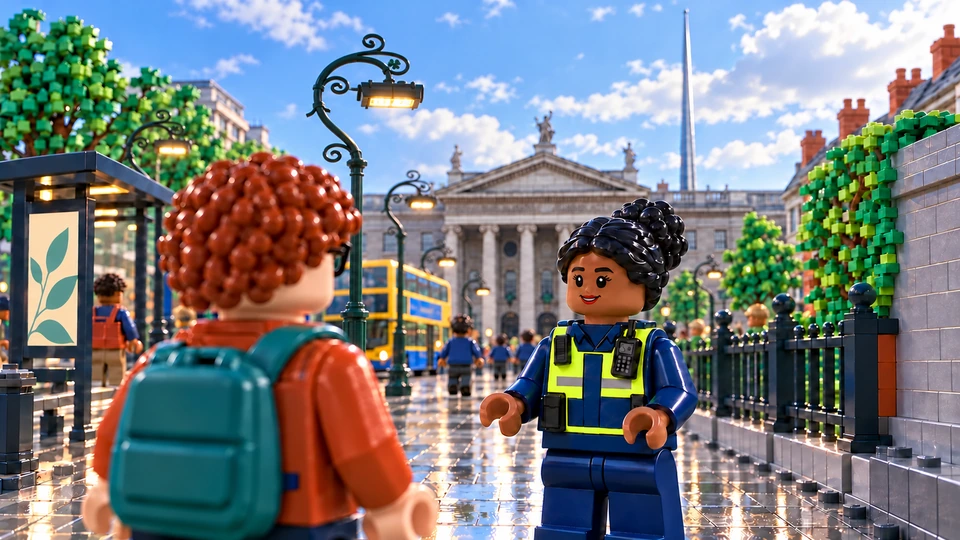
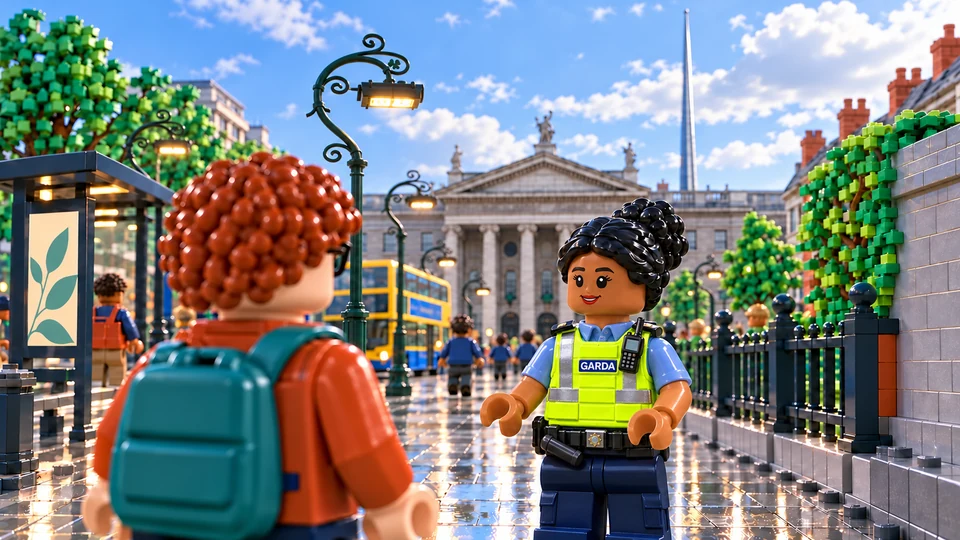
Update Garda character uniforms from photo reference
Add a transparent nine-character uniform atlas and matching introductory artwork. Retain cast identities, calibrate crops and feet, and keep GARDA lettering readable. Record automated verification and the browser validation limitation.

diff --git a/encounters/scenes.css b/encounters/scenes.css
@@ -15,8 +15,7 @@
 .scene-actor::before{content:"";position:absolute;left:17%;bottom:0;width:66%;height:5%;border-radius:50%;background:radial-gradient(ellipse,#182a3260,transparent 70%)}
 .scene-sprite{position:relative;display:block;width:100%;height:100%;overflow:hidden}
 .scene-sprite>img{position:absolute;display:block;max-width:none;max-inline-size:none;pointer-events:none}
-/* These source figures look right; face them towards the public character. */
-.scene-actor:is([data-scene-character="garda-2"],[data-scene-character="garda-4"],[data-scene-character="garda-7"],[data-scene-character="garda-8"]) .scene-sprite{transform:scaleX(-1)}
+/* Garda artwork already faces its partner; never mirror uniform lettering. */
 .encounter-scene figcaption{padding:.8rem 1rem}
 .scene-cast-names{display:grid;grid-template-columns:repeat(2,minmax(0,1fr));direction:ltr;gap:1rem}
 .scene-cast-names>span{display:flex;flex-direction:column;gap:.2rem;min-width:0;text-align:center;color:var(--deep,#173d3b);overflow-wrap:anywhere}

diff --git a/garda/index.html b/garda/index.html
@@ -9,11 +9,11 @@
 <link rel="icon" href="../assets/brand/favicon-hexagon.png" type="image/png">
 <link rel="stylesheet" href="./styles.css">
 <link rel="stylesheet" href="../encounters/styles.css">
-<link rel="stylesheet" href="../encounters/scenes.css?v=context-scenes-1">
+<link rel="stylesheet" href="../encounters/scenes.css?v=garda-uniforms-20261112">
 <link rel="stylesheet" href="../accessibility/styles.css">
 <link rel="stylesheet" href="../accessibility/perspectives.css">
 <link rel="stylesheet" href="../accessibility/responsive.css">
-<script type="module" src="./app.mjs?v=support-resources-1"></script>
+<script type="module" src="./app.mjs?v=garda-uniforms-20261112"></script>
 <link rel="stylesheet" href="../assets/brand/landing.css?v=full-scenes-1">
 <link rel="stylesheet" href="../assets/brand/buttons.css?v=learning-flow-2">
 <link rel="stylesheet" href="../encounters/refinements.css?v=scene-review-1">

diff --git a/index.html b/index.html
@@ -9,11 +9,11 @@
 <link rel="icon" href="./assets/brand/favicon-hexagon.png" type="image/png">
 <link rel="stylesheet" href="./styles.css">
 <link rel="stylesheet" href="./encounters/styles.css">
-<link rel="stylesheet" href="./encounters/scenes.css?v=context-scenes-1">
+<link rel="stylesheet" href="./encounters/scenes.css?v=garda-uniforms-20261112">
 <link rel="stylesheet" href="./accessibility/styles.css">
 <link rel="stylesheet" href="./accessibility/perspectives.css">
 <link rel="stylesheet" href="./accessibility/responsive.css">
-<script type="module" src="./app.mjs?v=support-resources-1"></script>
+<script type="module" src="./app.mjs?v=garda-uniforms-20261112"></script>
 <link rel="stylesheet" href="./assets/brand/landing.css?v=choice-first-1">
 <link rel="stylesheet" href="./assets/brand/buttons.css?v=learning-flow-2">
 <link rel="stylesheet" href="./encounters/refinements.css?v=scene-review-1">

diff --git a/docs/garda-uniforms-2026.md b/docs/garda-uniforms-2026.md
@@ -1,0 +1,49 @@
+# Garda uniform artwork update — 12 November 2026
+
+## Reference and design
+
+The project owner supplied a photograph of three Garda members as the uniform reference. The generated artwork uses the clothing in that photograph; the fictional game characters retain their established identities rather than copying the photographed people.
+
+Three clothing treatments are used:
+
+| Uniform | Characters |
+| --- | --- |
+| Light blue short-sleeved shirt, navy trousers, duty belt | Jamie, Lee, Orla |
+| Fluorescent yellow vest with silver reflective strips over light blue | Ciara, Aisling, Charlie |
+| Navy zipped jacket with fluorescent yellow upper panel and silver reflective strips | Rory, Kai, Conor |
+
+Aisling retains her light cream skin and navy hijab, with covered forearms. Orla retains her blonde hair and glasses. The nine fictional identities, natural skin-tone range and LEGO-style proportions follow the existing cast. Garda caps are used for Rory, Jamie and Conor.
+
+## Files
+
+- [Character atlas](../assets/characters/garda-uniforms-2026.webp): transparent 1254 × 1254, row-major 3 × 3 arrangement.
+- Rows: Ciara / Rory / Jamie; Lee / Aisling / Kai; Conor / Orla / Charlie.
+- [Public-view hero](../assets/heroes/public-1600.webp) and [Garda-view hero](../assets/heroes/garda-1600.webp): Ciara wears the matching vest and light blue sleeves. Each has 480, 960 and 1600 pixel responsive variants.
+- [Generation prompts](garda-uniform-prompts-2026.txt): exact prompts used with the built-in image-generation tool.
+
+The source photograph is not included in the repository. The generated PNG masters are also available in the owner's [Canva project folder](https://www.canva.com/folder/FAHavSZgztM).
+
+The atlas was encoded as lossless WebP (757,034 bytes). Verification compared every alpha value and every nontransparent RGB value against the generated PNG: all match. Only invisible RGB values behind fully transparent pixels differ. Hero variants use WebP quality 88.
+
+## Runtime integration
+
+`encounters/garda-artwork.mjs` supplies the same Garda artwork to character selection, saved cast portraits, scenes, feedback and recaps. `encounters/garda-atlas.mjs` stores the measured crop boundaries, horizontal centres and foot baselines. Each officer is positioned in a 380-pixel logical frame with a common floor at 370.5 pixels (97.5% of the frame).
+
+The original automatic horizontal flips have been removed for Garda figures so “GARDA” remains readable. The generated officers use a near-front-facing pose. Character names and other interface text remain HTML, outside the images.
+
+The asset route changes only appearance. Character IDs, saved preferences, scene casting, choices, scoring and scenario facts retain the existing behaviour.
+
+## Review scope
+
+This is a focused uniform revision based on `main` at `436e646efef167a0cb6bd9ead40098c8c901c69a`. It does not incorporate the separate `uimproved` or QA branches. The older atlas and pose assets remain as historical references and for existing public-character rendering; active Garda rendering uses the new atlas.
+
+The review branch is `feat/garda-uniforms-photo-reference-20261112`.
+
+## Validation
+
+- Existing automated suite: 127 public-entrypoint tests and 52 Garda-entrypoint tests passed, with no failures. The scene coverage includes every stage with all 81 public/Garda character pairs.
+- After the lossless WebP packaging change, all five affected scene tests passed again.
+- Syntax checks passed for all 82 JavaScript modules; the final diff passed whitespace checks.
+- Visual inspection of the generated master confirmed nine distinct characters, correct row order, readable GARDA patches, intact figures and true alpha transparency. The atlas foot positions were measured from the actual output.
+- Browser visual checks are **not verified**. The eight relevant Playwright cases were blocked at browser startup by the execution environment's socket restrictions. The separate browser could not access the local preview. Phone/desktop screenshot checks and Firefox/WebKit checks therefore remain for review before merging.
+

diff --git a/docs/CHARACTERS.md b/docs/CHARACTERS.md
@@ -32,6 +32,8 @@ Node coverage includes all random-selection intervals, character edits without s
 
 ## Artwork record
 
+- **November 2026 uniform revision:** all nine Garda characters now use the transparent [photo-referenced uniform atlas](../assets/characters/garda-uniforms-2026.webp) for selection and in-scene rendering. The three clothing styles and measured crop coordinates are documented in the [uniform artwork record](garda-uniforms-2026.md). Aisling's light cream skin and navy hijab are retained. The earlier atlas descriptions below record the previous revisions.
+
 - Aisling (`garda-5`) now has light cream skin and a navy hijab. Her selection portrait and three scene poses use the dedicated 1254 × 1254 transparent [atlas](../assets/characters/aisling-hijab.webp), routed through `characterArtwork()`. Ciara and the other characters retain their original artwork. Saved cast IDs and progress remain compatible. The [generation record](aisling-art-prompt.md) describes this revision.
 - Faces, heads, necks and hands use a natural skin-tone spectrum from cream through tan to dark brown across both roles. Each character's exposed skin matches, and the two hero viewpoints use the same tones for Alex and Ciara. Appearance has no effect on scenario facts or scoring.
 - The September 2026 colour revision uses the built-in image-generation tool to edit the original artwork, retaining the cast layout, clothing, assistive devices and role colours. All responsive hero sizes derive from the same revised image for their viewpoint.

diff --git a/README.md b/README.md
@@ -102,8 +102,10 @@ The original single-role practice also remains available: six public situations 
 **18 fictional LEGO-style characters. Nine for each side.** You choose a character, not a personal identity profile. The cast includes men, women and characters with an ambiguous gender presentation.
 
 <p align="center">
-  <img src="assets/characters/cast.webp" width="680" alt="The 18 selectable LEGO-style characters. In each row, the first three figures are public characters and the remaining three are Garda characters.">
+  <img src="assets/characters/garda-uniforms-2026.webp" width="680" alt="The nine Garda characters in photo-referenced uniforms: Ciara, Rory and Jamie; Lee, Aisling and Kai; Conor, Orla and Charlie.">
 </p>
+
+**Updated Garda uniforms, November 2026.** The nine officers wear light blue shirts, fluorescent yellow reflective vests, or navy and yellow jackets based on a supplied Garda reference photograph. The matching introductory illustrations use Ciara's updated vest. [Artwork and implementation record](docs/garda-uniforms-2026.md).
 
 **[Choose a public character](https://samobrienolinger.github.io/stopped-both-sides/#encounters/public)** · **[Choose a Garda character](https://samobrienolinger.github.io/stopped-both-sides/garda/#encounters/garda)**
 
